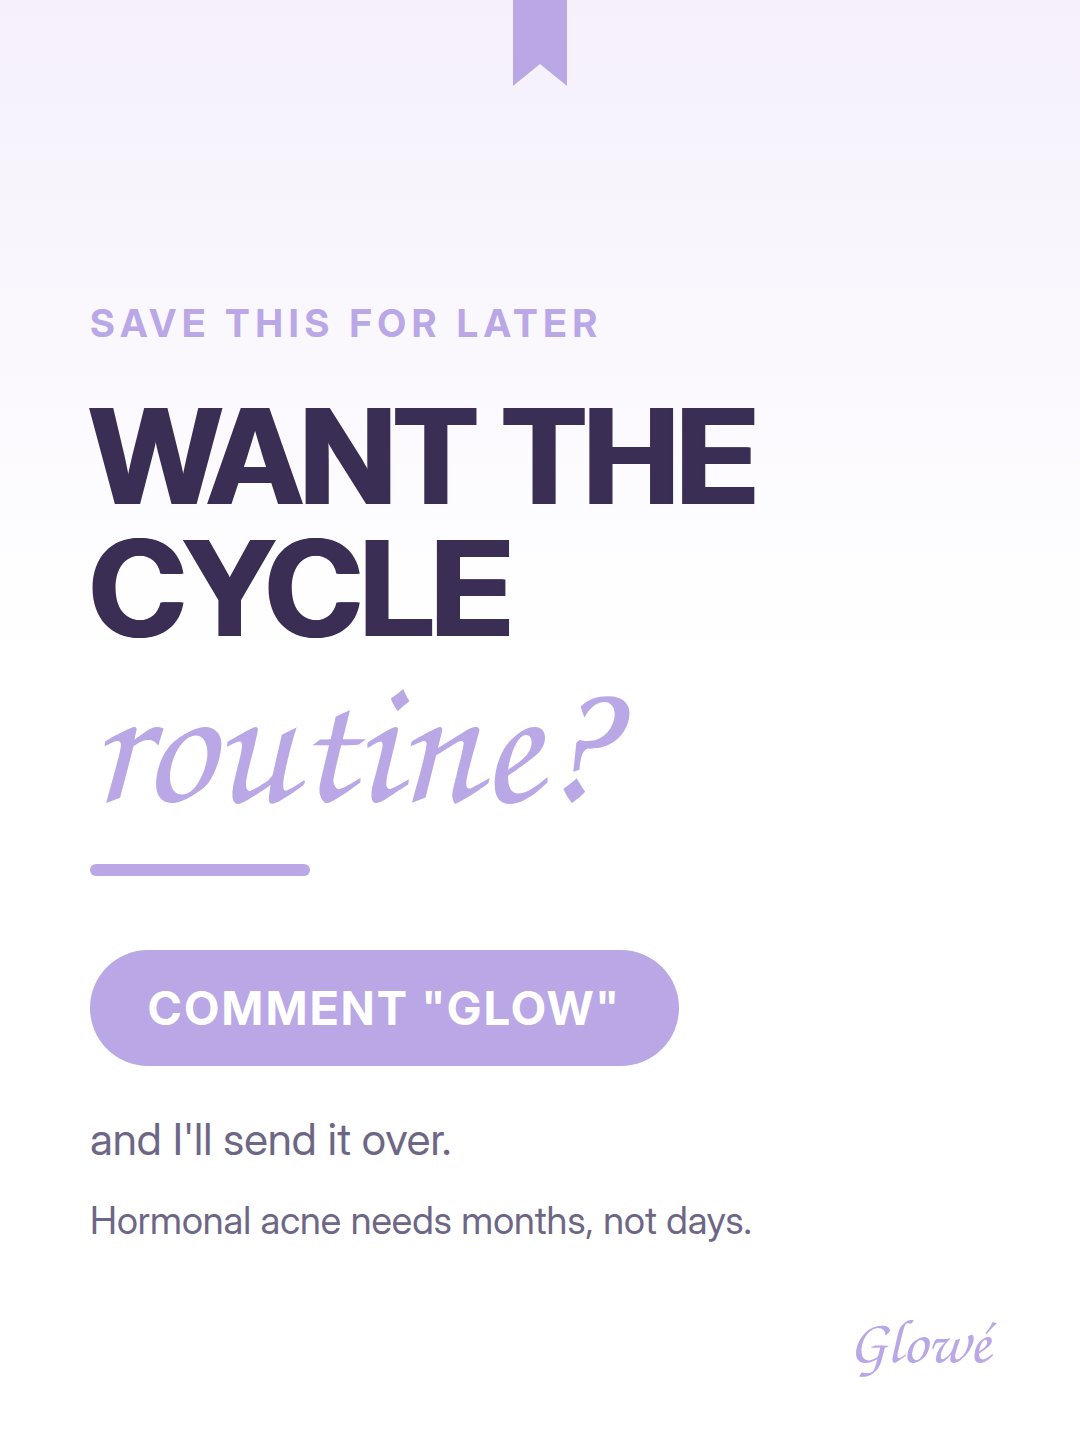
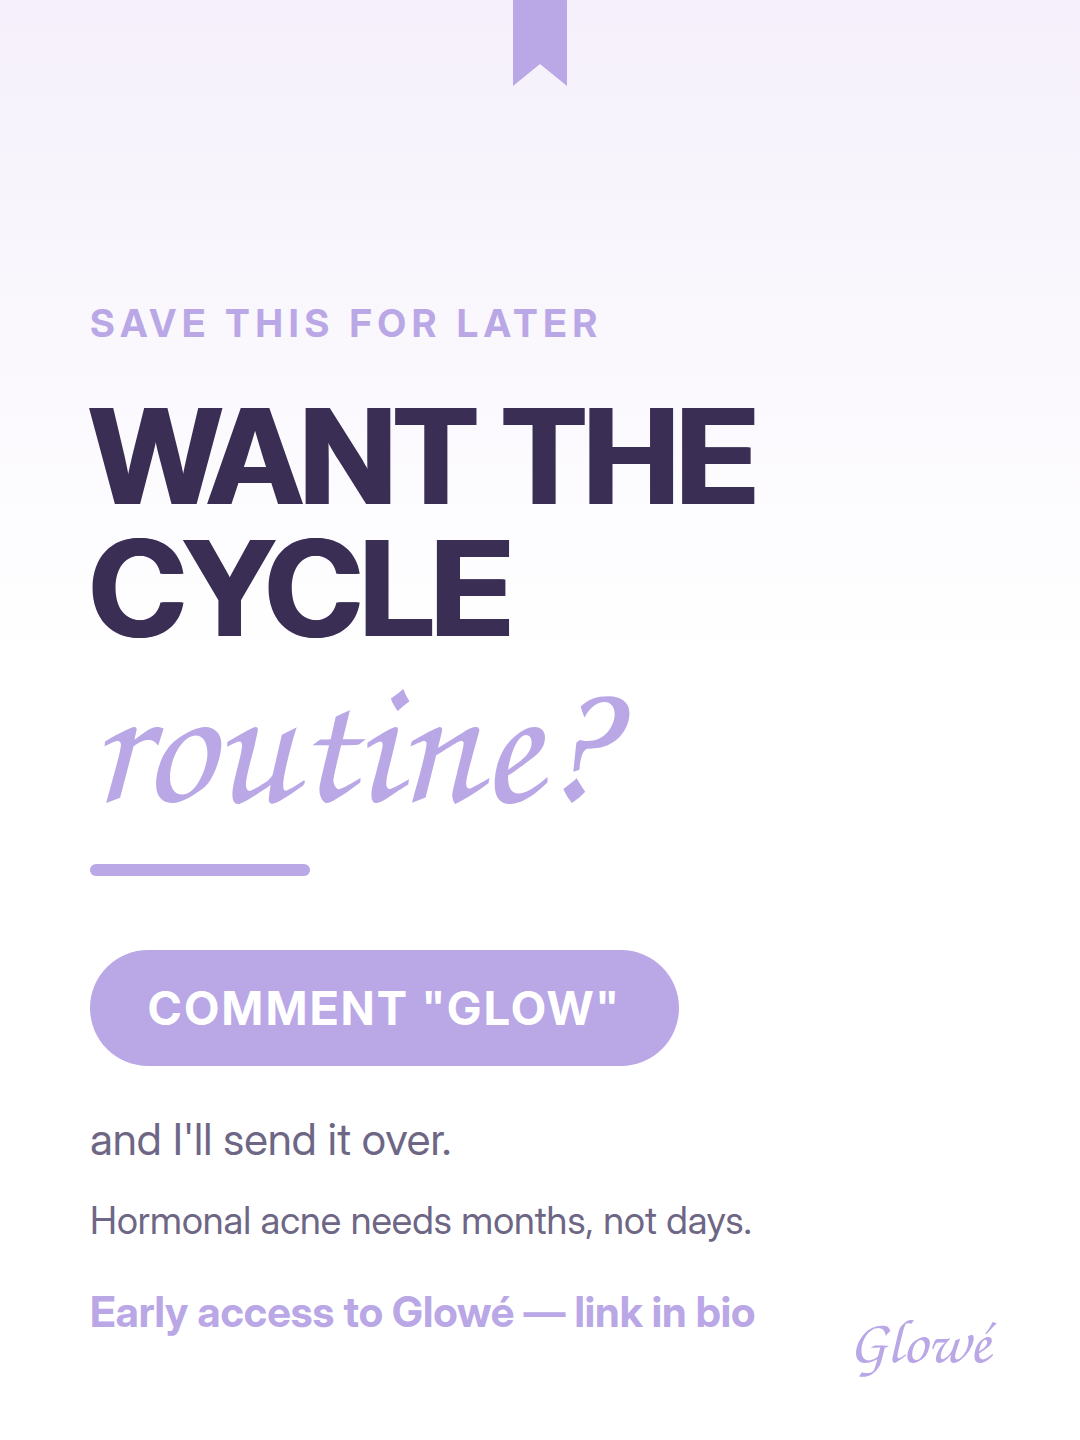
Lift slide 1 content and add an early-access CTA to the closing slide
Slide 1 carries eyebrow, headline, subline and pill against the shared
top:300px and read bottom-heavy. It now gets its own .content.high at
top:200px; the step slides keep 300px because they need the headroom for
the ghost numeral.

The closing slide gains an optional "early" line under line2, rendered in
lavender bold so it reads as a second call to action without competing with
the GLOW pill. Set for all three carousels; the app is TestFlight-only, so
the wording points at early access and the bio link rather than the store.

The Glowé wordmark stays where it was, bottom right.

Claude-Session: https://claude.ai/code/session_01EJfp6AtmKdfAEJn3yox12P

Changed region(s): [[0.0611, 0.875, 0.7028, 0.9375]]

diff --git a/web/tiktok/render.py b/web/tiktok/render.py
@@ -31,6 +31,10 @@ body {{
   text-shadow: 3px 0 {GHOST}, -3px 0 {GHOST};
 }}
 .content {{ position:absolute; left:90px; top:300px; width:900px; }}
+/* Slide 1 traegt Headline + Subline + Pill und sitzt mit dem gemeinsamen
+   top:300px sichtbar zu tief. Nur diese Slide hoeher haengen — die
+   Step-Slides brauchen den Platz oben fuer die Ghost-Ziffer. */
+.content.high {{ top:200px; }}
 .eyebrow {{
   font-weight:700; font-size:38px; letter-spacing:6px;
   color:{LAV}; text-transform:uppercase; margin-bottom:44px;
@@ -64,6 +68,12 @@ body {{
 }}
 .after-pill {{ font-size:44px; color:{BODY}; line-height:1.5; margin-top:40px; }}
 .line2 {{ font-size:38px; color:{BODY}; line-height:1.5; margin-top:20px; }}
+/* Zweiter CTA unter dem GLOW-Pill. Lavendel + bold, damit er als eigener
+   Call-to-Action liest, aber kleiner bleibt als der Pill — der Kommentar
+   ist der Hauptweg, Early Access der Anschluss. */
+.early {{
+  font-weight:700; font-size:42px; color:{LAV}; line-height:1.4; margin-top:34px;
+}}
 .logo {{
   position:absolute; bottom:60px; right:90px;
   font-family:'{FONT_SCRIPT}'; font-size:62px; color:{LAV};
@@ -73,11 +83,12 @@ body {{
 RIBBON_SVG = f"""<svg class="ribbon" width="54" height="86" xmlns="http://www.w3.org/2000/svg">
 <polygon points="0,0 54,0 54,86 27,64 0,86" fill="{LAV}"/></svg>"""
 
-def page(inner, ghost=None):
+def page(inner, ghost=None, high=False):
     g = f'<div class="ghost">{ghost}</div>' if ghost else ""
+    cls = "content high" if high else "content"
     return (f"<!DOCTYPE html><html><head><meta charset='utf-8'>"
             f"<style>{BASE_CSS}</style></head><body>{g}{RIBBON_SVG}"
-            f"<div class='content'>{inner}</div>"
+            f"<div class='{cls}'>{inner}</div>"
             f"<div class='logo'>Glow&eacute;</div></body></html>")
 
 def headline_html(text, script_word=None):
@@ -97,7 +108,7 @@ def build(slide):
                  f"<div class='bar'></div>"
                  f"<div class='sub'>{slide['subline']}</div>"
                  f"<div class='pill'>SWIPE FOR THE ROUTINE</div>")
-        return page(inner)
+        return page(inner, high=True)
     if n in (2, 3, 4):
         bullets = "".join(f"<div class='bullet'><span class='dot'></span>{b}</div>"
                           for b in slide["bullets"])
@@ -111,7 +122,9 @@ def build(slide):
              f"<div class='bar'></div>"
              f"<div class='pill'>COMMENT &quot;GLOW&quot;</div>"
              f"<div class='after-pill'>and I'll send it over.</div>"
-             f"<div class='line2'>{slide['line2']}</div>")
+             f"<div class='line2'>{slide['line2']}</div>"
+             + (f"<div class='early'>{slide['early']}</div>"
+                if slide.get("early") else ""))
     return page(inner)
 
 W, H = 1080, 1440
